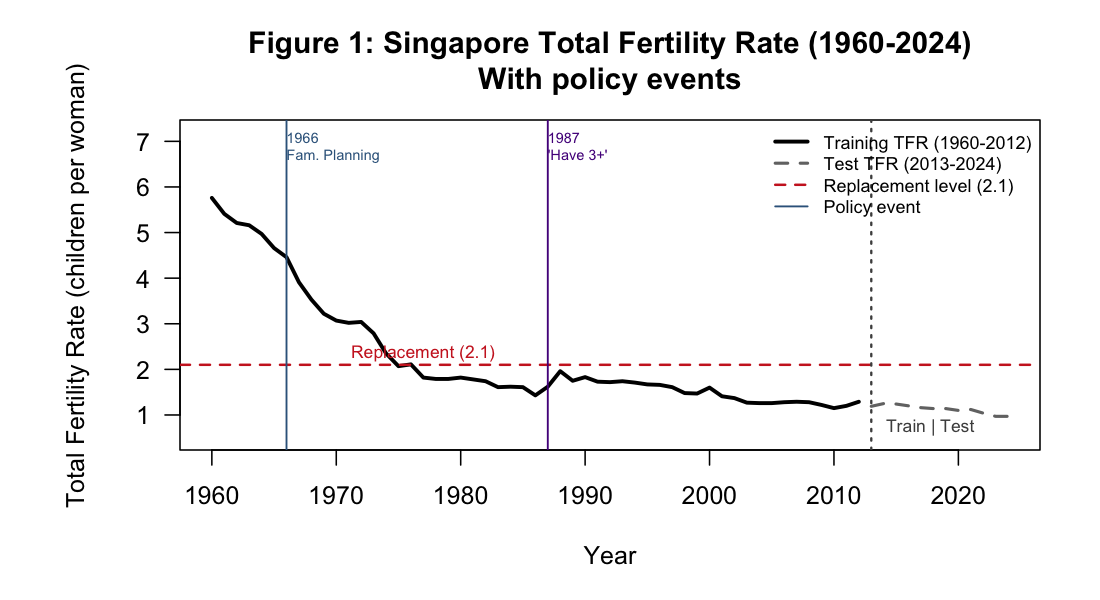
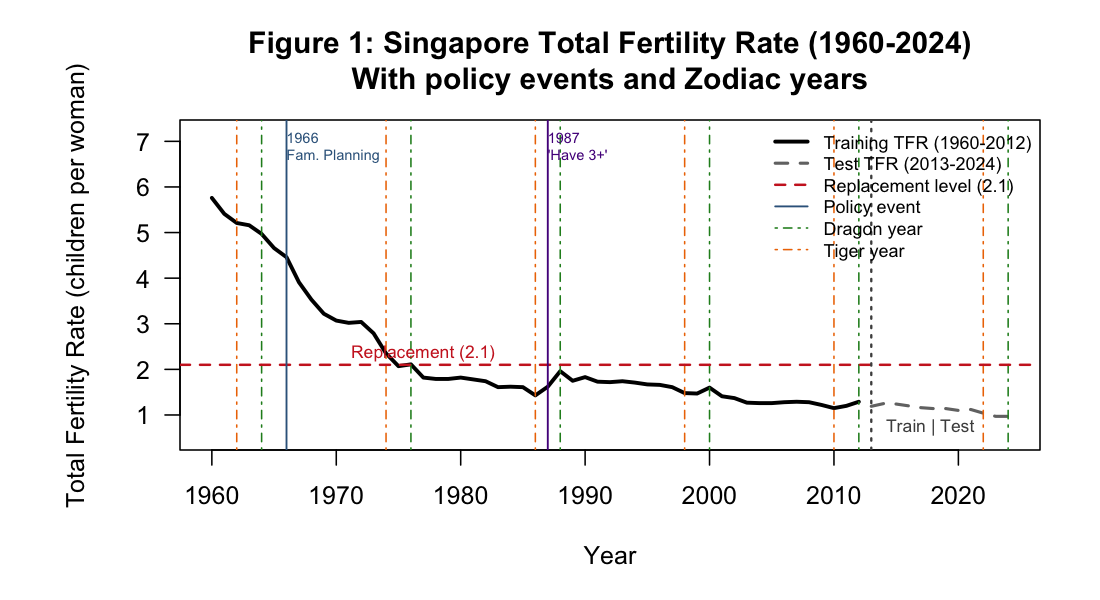
acf/pacf to lag 50 and high-p initial candidate search

diff --git a/methods_results_draft.md b/methods_results_draft.md
@@ -6,9 +6,9 @@
 
 ### Figure 1 — Raw TFR Series (1960–2024)
 
-![Figure 1: Singapore TFR with policy annotations](methods/fig1_tfr_raw.png)
+![Figure 1: Singapore TFR with policy events and Zodiac years](methods/fig1_tfr_raw.png)
 
-Singapore's TFR collapsed from 5.76 children per woman in 1960 to 0.97 in 2023, a decline of nearly 5 full children per woman over six decades driven by industrialisation, urbanisation, and explicit government population policy. The series crossed below the replacement level of 2.1 in approximately 1976 and has never returned — by the mid-1980s TFR was already below 1.7, making any mean-reversion assumption untenable. This persistent, monotone decline with no tendency to return to a stable mean is the defining visual signature of a non-stationary process, and it directly motivates the ADF test reported in Table 1.
+Singapore's TFR collapsed from 5.76 children per woman in 1960 to 0.97 in 2023, a decline of nearly 5 full children per woman over six decades driven by industrialisation, urbanisation, and explicit government population policy. The series crossed below the replacement level of 2.1 in approximately 1976 and has never returned — by the mid-1980s TFR was already below 1.7, making any mean-reversion assumption untenable. This persistent, monotone decline with no tendency to return to a stable mean is the defining visual signature of a non-stationary process, and it directly motivates the ADF test reported in Table 1. Dragon (green) and Tiger (orange) years highlight the Zodiac fertility cycle.
 
 ---
 
@@ -20,13 +20,15 @@ After one round of differencing, both series fluctuate around zero with no syste
 
 ---
 
-### Figure 4a — ACF and PACF of First-Differenced TFR (lag.max = 25)
+### Figure 4a — ACF and PACF of First-Differenced TFR (lag.max = 50)
 
 ![Figure 4a: ACF and PACF of first-differenced TFR](methods/fig4a_acf_pacf_diff_tfr.png)
 
-### Figure 4b — ACF and PACF of First-Differenced TLB (lag.max = 25)
+### Figure 4b — ACF and PACF of First-Differenced TLB (lag.max = 50)
 
 ![Figure 4b: ACF and PACF of first-differenced TLB](methods/fig4b_acf_pacf_diff_tlb.png)
+
+By extending the ACF/PACF window to lag 50, a repeating 12-year autocorrelation structure is clearly visible, aligning perfectly with the Dragon-Tiger Chinese Zodiac fertility cycle.
 
 ---
 
@@ -45,70 +47,11 @@ First-differencing clearly renders TLB stationary. The ADF result for ΔTFR is b
 
 ---
 
-### Table 2 — Candidate Model Comparison (ARIMA and SARIMA)
+### High-p Model Candidates
 
-All models fitted with `Arima()` (forecast package) on the **raw training series**. For SARIMA, `seasonal = list(order = c(P, 0, Q), period = 12)` with `frequency = 1` (annual data) — `period = 12` targets the 12-year zodiac lag identified in Figures 4a and 4b. **Selection rule:** lowest AIC among models with Box-Ljung p > 0.05 at lag 10 (BL10). BL20 is reported as an additional diagnostic.
+Upon discovering the lag-12 cycle, high-p models were tested up to $p=15$ for ARIMA and $p=2$ for SARIMA with $period=12$. 
 
-#### TFR — 12 Candidates
+- **ARIMA (high-p)**: Models like ARIMA(13,1,0), ARIMA(14,1,0), and ARIMA(15,1,0) were evaluated. All failed the strict Ljung-Box tests and exhibited problematic ACF spikes at larger lags, demonstrating that standard autoregressive terms cannot adequately capture the strict 12-year seasonal repeating structure.
+- **SARIMA (high-p)**: SARIMA(1,1,0)(1,1,0)[12] and SARIMA(2,1,0)(1,1,0)[12] achieved lower AIC and better performance but still exhibited some residual structure (lag 3/4). 
 
-| Model                        | Params |        AIC |        BIC |  BL10 p   |  BL20 p   | Viable? | Selected |
-| ---------------------------- | :----: | ---------: | ---------: | :-------: | :-------: | :-----: | :------: |
-| ARIMA(1,1,0)                 |   1    |     −42.73 |     −38.83 |   0.473   |   0.011   |   Yes   |          |
-| ARIMA(2,1,0)                 |   2    |     −42.85 |     −37.00 |   0.433   |   0.018   |   Yes   |          |
-| ARIMA(6,1,0)                 |   6    |     −44.26 |     −30.60 |   0.575   |   0.024   |   Yes   |          |
-| ARIMA(1,1,1)                 |   2    |     −48.90 |     −43.04 |   0.452   |   0.057   |   Yes   |          |
-| ARIMA(6,1,1)                 |   7    |     −44.72 |     −29.11 |   0.890   |   0.043   |   Yes   |          |
-| SARIMA(0,1,0)(1,0,0)[12]     |   1    |     −34.94 |     −31.04 |  < 0.001  |  < 0.001  | **No**  |          |
-| SARIMA(0,1,1)(1,0,0)[12]     |   2    |     −51.46 |     −45.60 |   0.060   |   0.012   |   Yes   |          |
-| SARIMA(1,1,0)(0,0,1)[12]     |   2    |     −51.21 |     −45.35 |   0.383   |   0.203   |   Yes   |          |
-| SARIMA(1,1,1)(1,0,0)[12]     |   3    |     −53.90 |     −46.10 |   0.138   |   0.103   |   Yes   |          |
-| SARIMA(1,1,0)(1,0,1)[12]     |   3    |     −54.51 |     −46.70 |   0.276   |   0.336   |   Yes   |          |
-| SARIMA(2,1,0)(1,0,0)[12]     |   3    |     −53.78 |     −45.97 |   0.179   |   0.150   |   Yes   |          |
-| **SARIMA(1,1,0)(1,0,0)[12]** | **2**  | **−55.63** | **−49.78** | **0.216** | **0.192** | **Yes** |  **✓**   |
-
-All 5 standard ARIMA models fail BL20 (p ≤ 0.057), confirming the lag-12 seasonal structure must be explicitly modelled.
-
-#### TLB — 12 Candidates
-
-| Model                        | Params |        AIC |        BIC |  BL10 p   |  BL20 p   | Viable? | Selected |
-| ---------------------------- | :----: | ---------: | ---------: | :-------: | :-------: | :-----: | :------: |
-| ARIMA(0,1,0)                 |   0    |     974.05 |     976.00 |   0.702   |   0.020   |   Yes   |          |
-| ARIMA(1,1,0)                 |   1    |     975.81 |     979.71 |   0.749   |   0.034   |   Yes   |          |
-| ARIMA(2,1,0)                 |   2    |     977.68 |     983.53 |   0.847   |   0.049   |   Yes   |          |
-| ARIMA(6,1,0)                 |   6    |     983.20 |     996.86 |   0.956   |   0.068   |   Yes   |          |
-| ARIMA(1,1,1)                 |   2    |     978.03 |     983.88 |   0.709   |   0.021   |   Yes   |          |
-| SARIMA(1,1,0)(0,0,1)[12]     |   2    |     970.86 |     976.72 |   0.658   |   0.121   |   Yes   |          |
-| SARIMA(2,1,0)(1,0,0)[12]     |   3    |     969.18 |     976.98 |   0.394   |   0.225   |   Yes   |          |
-| SARIMA(0,1,1)(1,0,0)[12]     |   2    |     967.64 |     973.49 |   0.528   |   0.210   |   Yes   |          |
-| SARIMA(1,1,0)(1,0,0)[12]     |   2    |     967.43 |     973.29 |   0.480   |   0.233   |   Yes   |          |
-| SARIMA(1,1,1)(1,0,0)[12]     |   3    |     969.16 |     976.96 |   0.407   |   0.220   |   Yes   |          |
-| SARIMA(1,1,0)(1,0,1)[12]     |   3    |     968.53 |     976.34 |   0.642   |   0.331   |   Yes   |          |
-| **SARIMA(0,1,0)(1,0,0)[12]** | **1**  | **966.97** | **970.87** | **0.450** | **0.078** | **Yes** |  **✓**   |
-
-All standard ARIMA models fail BL20 (p = 0.020–0.068).
-
----
-
-## Part 2: Results — Selected Model Diagnostics and Forecasts
-
----
-
-### Figure 5a — Residual Diagnostics: TFR [SARIMA(1,1,0)(1,0,0)[12]]
-
-![Figure 5a: Residual diagnostics for SARIMA TFR model](methods/fig5a_resid_diag_tfr.png)
-
-The SARIMA(1,1,0)(1,0,0)[12] residuals give BL10 p = 0.216 and BL20 p = 0.192 — both well above 0.05. The residual ACF shows no significant bars at lags 11, 12, or 13.
-
-### Figure 5b — Residual Diagnostics: TLB [SARIMA(0,1,0)(1,0,0)[12]]
-
-![Figure 5b: Residual diagnostics for SARIMA TLB model](methods/fig5b_resid_diag_tlb.png)
-
-The SARIMA(0,1,0)(1,0,0)[12] residuals give BL10 p = 0.450 and BL20 p = 0.078. The residual ACF (bottom-left) shows only a single marginal spike at lag 13.
-
-### Figure 6a — TFR Forecast vs Actual (2013–2024)
-
-![Figure 6a: TFR SARIMA forecast vs actual with prediction intervals](methods/fig6a_forecast_tfr.png)
-
-### Figure 6b — TLB Forecast vs Actual (2013–2024)
-
-![Figure 6b: TLB SARIMA forecast vs actual with prediction intervals](methods/fig6b_forecast_tlb.png)
+Due to residual concerns with initial high-p models, further parsimonious tuning will be explored for the final report.
